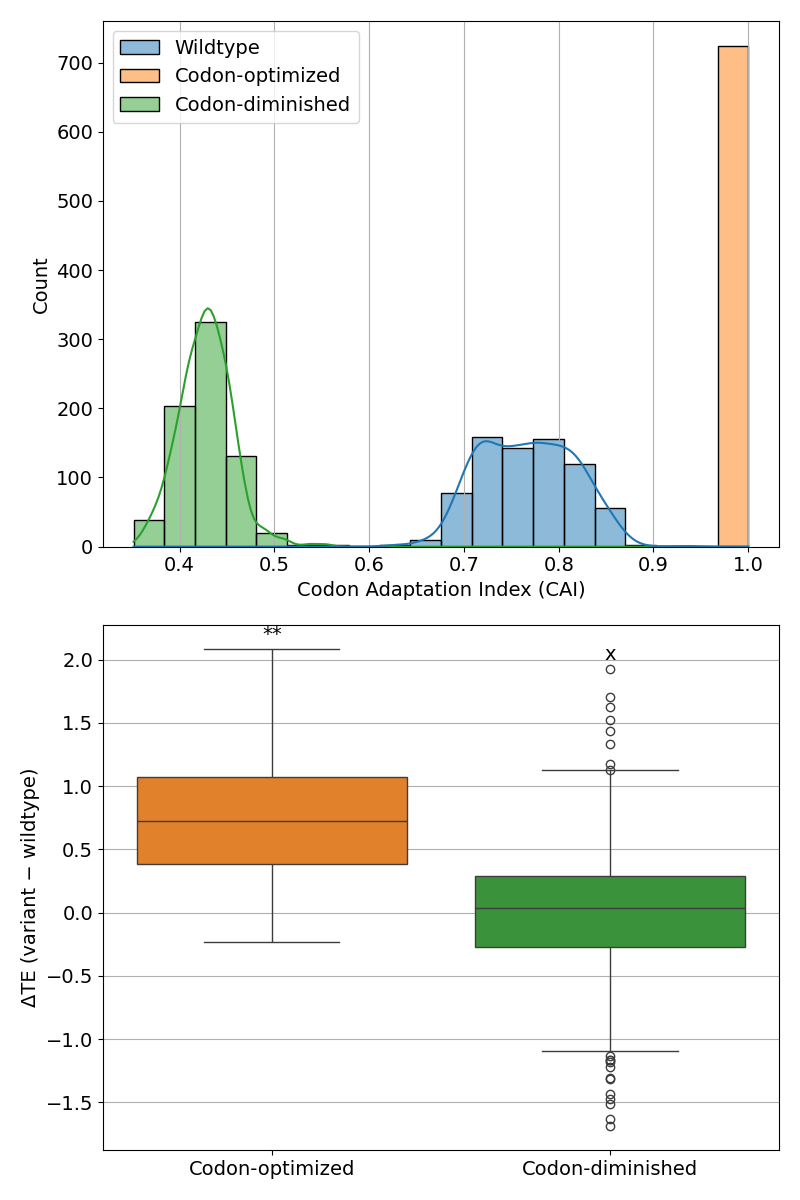
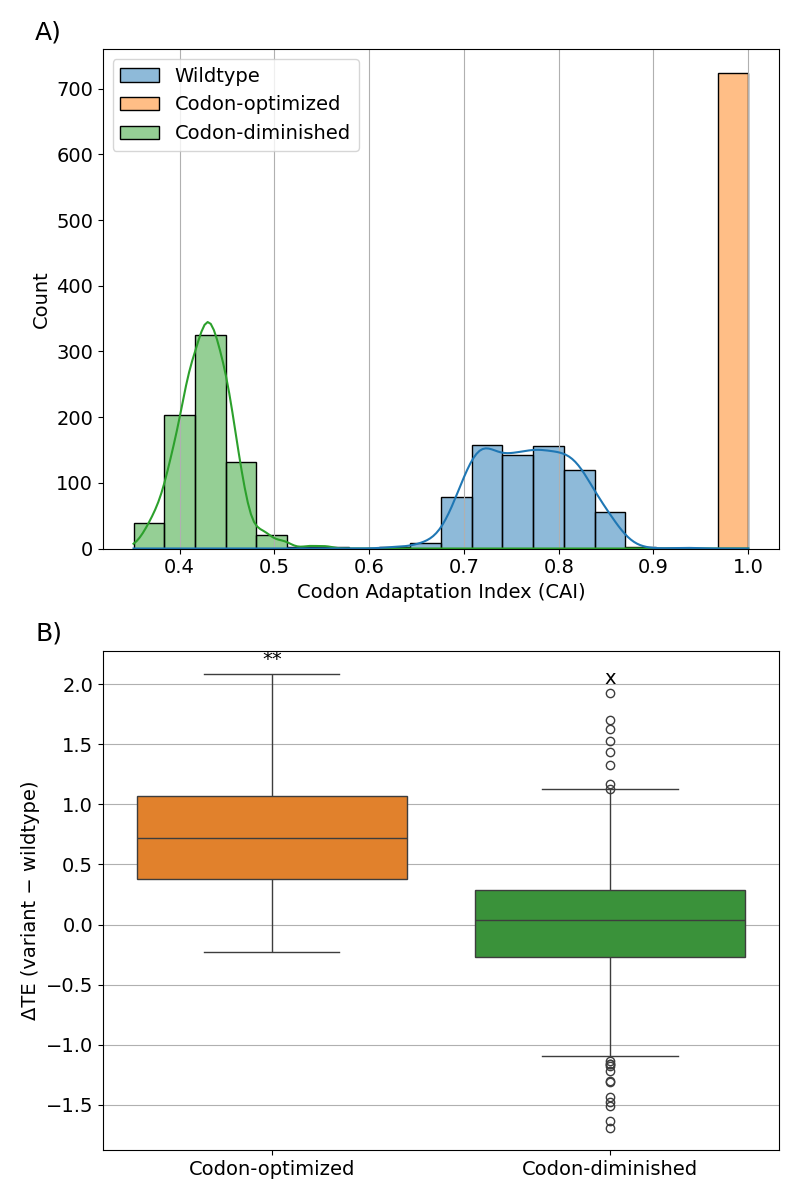
add A) and B) labels to plot

diff --git a/figure_scripts/codon_optimality_plot.py b/figure_scripts/codon_optimality_plot.py
@@ -31,7 +31,7 @@ plot_order = [
 palette = dict(zip(plot_order, sns.color_palette(n_colors=len(plot_order))))
 
 print(df.groupby("variant_type_plot")["CAI"].mean())
-print(variants.groupby("variant_type_plot")["delta_TE"].mean())
+print(variants.groupby("variant_type_plot")["delta_TE"].agg(["mean", "std"]))
 
 #histogram of CAI
 plt.figure(figsize=(8,6))
@@ -87,6 +87,7 @@ ax_hist.get_legend().set_title(None)
 ax_hist.grid(True, axis="x")
 ax_hist.set_xlabel("Codon Adaptation Index (CAI)")
 ax_hist.set_ylabel("Count")
+ax_hist.text(-0.1, 1.01, "A)", transform=ax_hist.transAxes, fontsize=18, va="bottom")
 
 sns.boxplot(data=variants, x="variant_type_plot", y="delta_TE", order=box_order, palette=palette, ax=ax_box)
 ax_box.yaxis.grid(True)
@@ -97,6 +98,7 @@ for i, (variant_type, p_value) in enumerate(zip(box_order, p_values)):
     ax_box.text(i, box_top + 0.01 * y_range, sig_label(p_value), ha="center", va="bottom")
 ax_box.set_xlabel("")
 ax_box.set_ylabel("ΔTE (variant − wildtype)")
+ax_box.text(-0.1, 1.01, "B)", transform=ax_box.transAxes, fontsize=18, va="bottom")
 
 plt.tight_layout()
 plt.savefig("./figures/codon_cai_hist_and_delta_te_boxplot_combined.png")